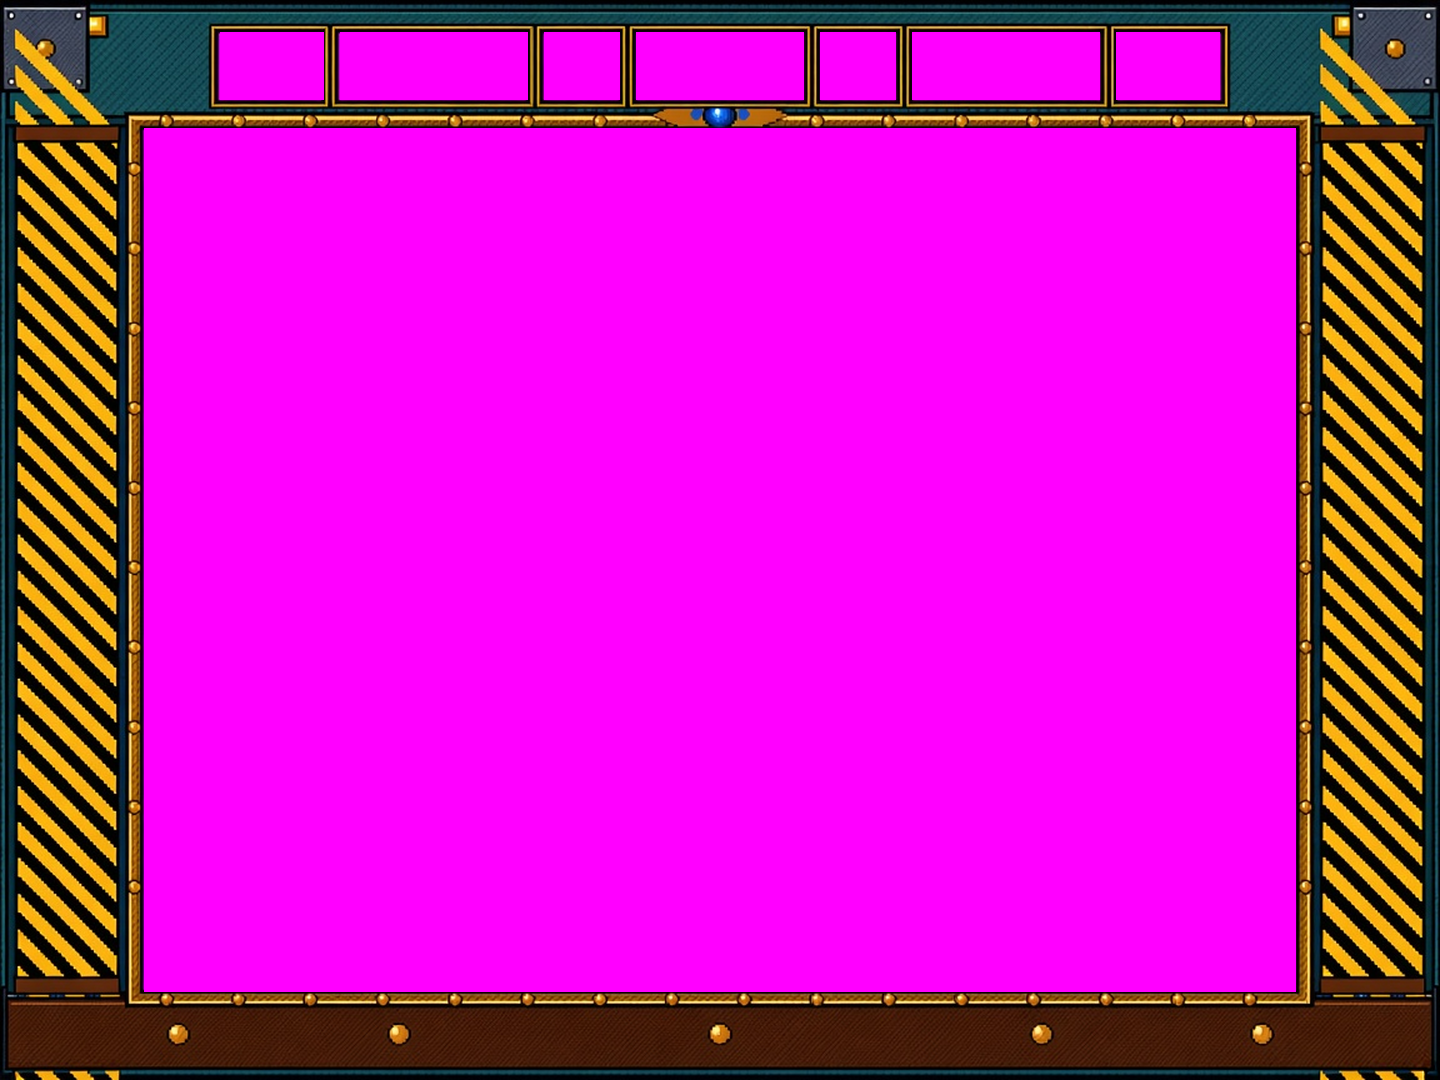
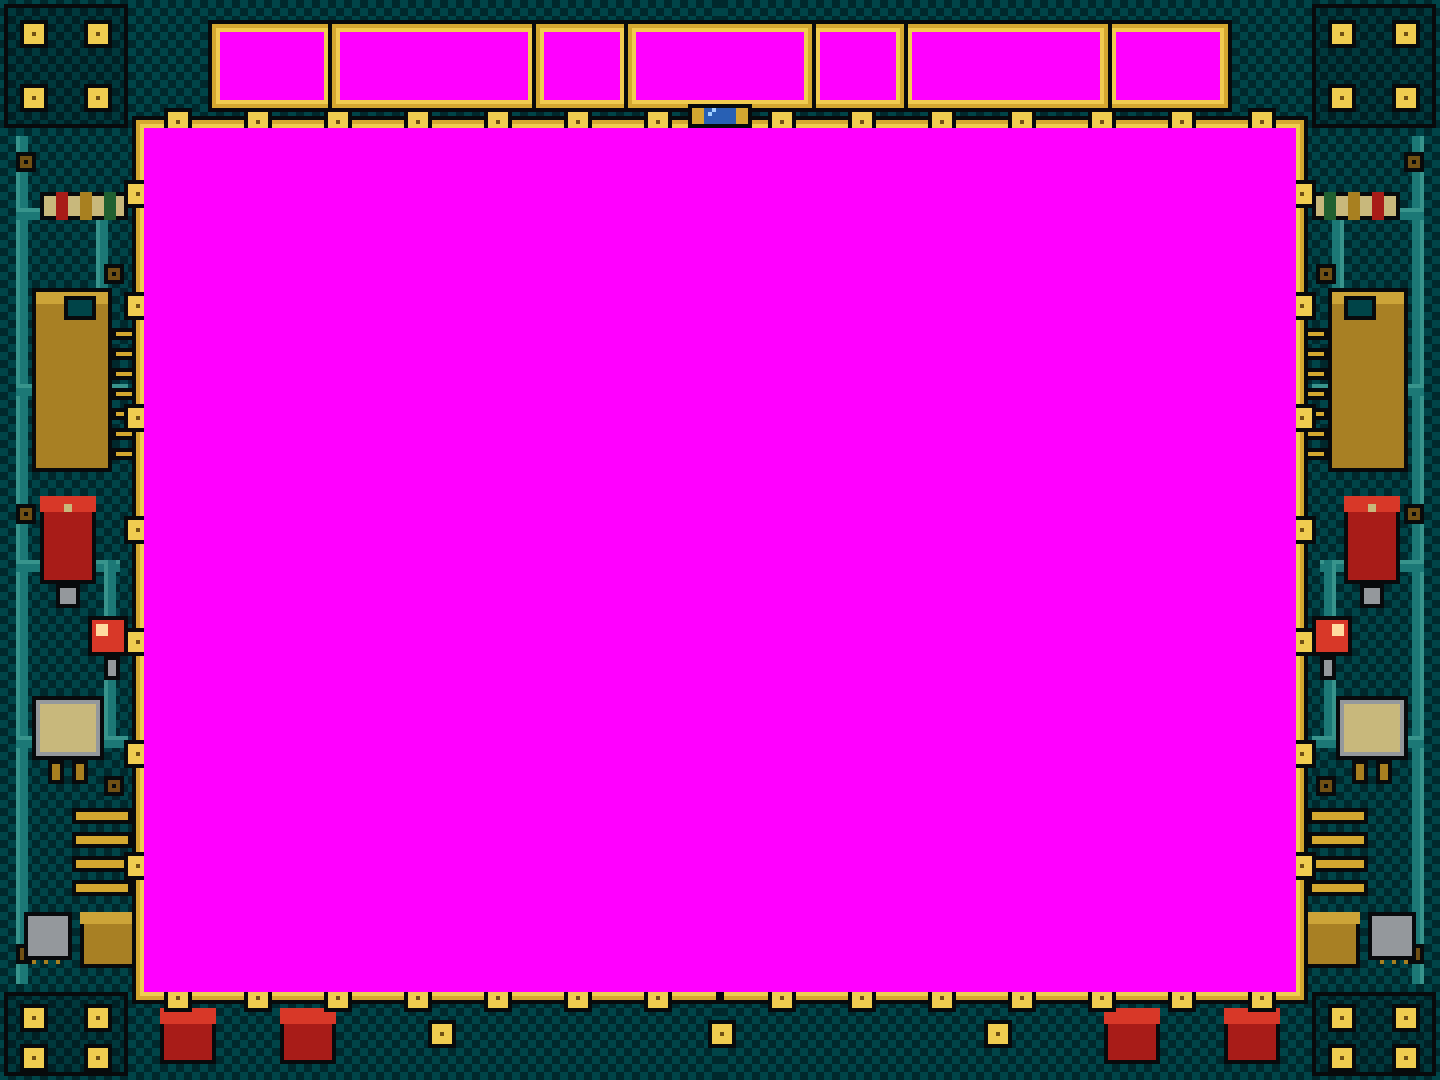
art

Changed region(s): [[0.0, 0.0, 1.0, 1.0]]

diff --git a/app/src/main/java/com/cc/railshot/ui/FighterArt.kt b/app/src/main/java/com/cc/railshot/ui/FighterArt.kt
@@ -113,7 +113,7 @@ object UiArt {
   fun roundNum(n: Int): String = "ui_num_${n.coerceIn(1, 3)}.png"
 }
 
-fun FighterArt.stageCourt(): String = court ?: "rivet/rivet_court_circuit.png"
+fun FighterArt.stageCourt(): String = court ?: "rivet/rivet_court.png"
 
 fun FighterArt.stageCabinet(): String = cabinet ?: "rivet/rivet_ui_cabinet.png"
 
@@ -177,7 +177,7 @@ fun Fighter.art(): FighterArt =
         hitRight = "rivet/rivet_game_hit_right.png",
         ending = "rivet/rivet_ending.png",
         wins = "rivet/rivet_wins.png",
-        court = "rivet/rivet_court_circuit.png",
+        court = "rivet/rivet_court.png",
         cabinet = "rivet/rivet_ui_cabinet.png",
         chipYou = "rivet/rivet_ui_chip_you.png",
         chipCpu = "rivet/rivet_ui_chip_cpu.png",
@@ -200,7 +200,7 @@ fun Fighter.art(): FighterArt =
         hitRight = "ash/ash_game_hit_right.png",
         ending = "ash/ash_ending.png",
         wins = "ash/ash_wins.png",
-        court = "ash/ash_court_circuit.png",
+        court = "ash/ash_court.png",
         cabinet = "ash/ash_ui_cabinet.png",
         chipYou = "ash/ash_ui_chip_you.png",
         chipCpu = "ash/ash_ui_chip_cpu.png",
@@ -223,7 +223,7 @@ fun Fighter.art(): FighterArt =
         hitRight = "kite/kite_game_hit_right.png",
         ending = "kite/kite_ending.png",
         wins = "kite/kite_wins.png",
-        court = "kite/kite_court_circuit.png",
+        court = "kite/kite_court.png",
         cabinet = "kite/kite_ui_cabinet.png",
         chipYou = "kite/kite_ui_chip_you.png",
         chipCpu = "kite/kite_ui_chip_cpu.png",
@@ -246,7 +246,7 @@ fun Fighter.art(): FighterArt =
         hitRight = "maru/maru_game_hit_right.png",
         ending = "maru/maru_ending.png",
         wins = "maru/maru_wins.png",
-        court = "maru/maru_court_circuit.png",
+        court = "maru/maru_court.png",
         cabinet = "maru/maru_ui_cabinet.png",
         chipYou = "maru/maru_ui_chip_you.png",
         chipCpu = "maru/maru_ui_chip_cpu.png",
@@ -269,7 +269,7 @@ fun Fighter.art(): FighterArt =
         hitRight = "quill/quill_game_hit_right.png",
         ending = "quill/quill_ending.png",
         wins = "quill/quill_wins.png",
-        court = "quill/quill_court_circuit.png",
+        court = "quill/quill_court.png",
         cabinet = "quill/quill_ui_cabinet.png",
         chipYou = "quill/quill_ui_chip_you.png",
         chipCpu = "quill/quill_ui_chip_cpu.png",
@@ -292,7 +292,7 @@ fun Fighter.art(): FighterArt =
         hitRight = "hex/hex_game_hit_right.png",
         ending = "hex/hex_ending.png",
         wins = "hex/hex_wins.png",
-        court = "hex/hex_court_circuit.png",
+        court = "hex/hex_court.png",
         cabinet = "hex/hex_ui_cabinet.png",
         chipYou = "hex/hex_ui_chip_you.png",
         chipCpu = "hex/hex_ui_chip_cpu.png",

diff --git a/playbook.md b/playbook.md
@@ -295,16 +295,16 @@ Do not skip ahead: later files are derived from earlier ones.
 
 No fighters, no HUD, no chips. Leave **empty vertical gutters** on left and right so in-game chips sit there. No purple IC squares. No top or bottom metal rails — the cabinet supplies those.
 
-Match **court + cabinet + chips** load from the **2P / rival**. Files: `art/{name}/{name}_court_circuit.png` (opaque 1440×1080), `art/{name}/{name}_ui_cabinet.png` (keyed 1440×1080, exact wells), and four gates `art/{name}/{name}_ui_chip_{you,cpu}.png` plus `..._down.png`. **Approve each fighter’s pair** (then that fighter’s chips) before generating the next. Missing files fall back to Rivet.
+Match **court + cabinet + chips** load from the **2P / rival**. Files: `art/{name}/{name}_court.png` (opaque 1440×1080), `art/{name}/{name}_ui_cabinet.png` (keyed 1440×1080, exact wells), and four gates `art/{name}/{name}_ui_chip_{you,cpu}.png` plus `..._down.png`. **Approve each fighter’s pair** (then that fighter’s chips) before generating the next. Missing files fall back to Rivet.
 
 | Fighter | Floor (playbook prompt) | Court file | Cabinet file |
 | --- | --- | --- | --- |
-| Rivet | Circuit stadium | `rivet/rivet_court_circuit.png` | `rivet/rivet_ui_cabinet.png` |
-| Ash | Parking garage | `ash/ash_court_circuit.png` | `ash/ash_ui_cabinet.png` |
-| Kite | Airfield tarmac | `kite/kite_court_circuit.png` | `kite/kite_ui_cabinet.png` |
-| Maru | Highland moor | `maru/maru_court_circuit.png` | `maru/maru_ui_cabinet.png` |
-| Quill | Forest aerie | `quill/quill_court_circuit.png` | `quill/quill_ui_cabinet.png` |
-| Hex | Night city grid (deep blue PCB) | `hex/hex_court_circuit.png` | `hex/hex_ui_cabinet.png` |
+| Rivet | Circuit stadium | `rivet/rivet_court.png` | `rivet/rivet_ui_cabinet.png` |
+| Ash | Parking garage | `ash/ash_court.png` | `ash/ash_ui_cabinet.png` |
+| Kite | Airfield tarmac | `kite/kite_court.png` | `kite/kite_ui_cabinet.png` |
+| Maru | Highland moor | `maru/maru_court.png` | `maru/maru_ui_cabinet.png` |
+| Quill | Forest aerie | `quill/quill_court.png` | `quill/quill_ui_cabinet.png` |
+| Hex | Night city grid (deep blue PCB) | `hex/hex_court.png` | `hex/hex_ui_cabinet.png` |
 
 **Circuit stadium**
 
@@ -318,13 +318,15 @@ Match **court + cabinet + chips** load from the **2P / rival**. Files: `art/{nam
 
 A **live dash** rides the midline only on **Rivet’s floor** (2P). After serve wait ~2.2s, the bead ping-pongs high ↔ low in ~3.6s each way. Only that bead is solid. Fireball and ice **ricochet**. HARD’s intercept includes the bounce. Paddles ignore it. Do not bake the bead into the floor PNG.
 
+Cabinet (`rivet/rivet_ui_cabinet.png`): authored **360×270**, nearest **×4** to 1440×1080. Left half mirrored. Chunky 8px dither, 12px traces, DIP / cap / LED / crystal / header / transistor. Gold bezels. No hazard stripes. Same well / hole table.
+
 ```
 Top-down 4:3 empty sports court floor, teal circuit-board traces only, gold broken circle with X in the center, dashed center line, empty side gutters, NO purple squares, NO IC pads, NO top or bottom rails, no people, no HUD, no text, pixel art arcade background, 1440x1080
 ```
 
 **Parking garage** (Ash) — **layout first, then pixels**
 
-Do **not** freehand the wells or gutters. Author `ash_court_circuit.png` to this 1440×1080 table (`World` `COURT_GUTTER_W_PX`, `POST_W_PX`, `POST_H_PX`, `POST_X_PX`, `POST_SLOTS`):
+Do **not** freehand the wells or gutters. Author `ash_court.png` to this 1440×1080 table (`World` `COURT_GUTTER_W_PX`, `POST_W_PX`, `POST_H_PX`, `POST_X_PX`, `POST_SLOTS`):
 
 | Piece | Pixels |
 | --- | --- |
@@ -396,7 +398,7 @@ Empty wells in the PNG: magenta `#FF00FF` only. No digits, letters, or dots in t
 `World` constants: `HOLE_*_PX`, `P1_SCORE_INSET`, `P1_NAME_INSET`, `P1_SETS_INSET`, `TIME_INSET`, `P2_SETS_INSET`, `P2_NAME_INSET`, `P2_SCORE_INSET`. `COURT_ASPECT` = 4/3.
 
 ```
-4:3 arcade cabinet 1440x1080, chrome drawn around these magenta wells only: P1 score 220,32,324,100; P1 name 340,32,528,100; P1 sets 544,32,620,100; time 636,32,804,100; P2 sets 820,32,896,100; P2 name 912,32,1100,100; P2 score 1116,32,1220,100; playfield hole 144,128,1296,992 (1152x864 4:3); hazard posts in side margins; wooden bumper below y=992; no text, no digits, no dots
+4:3 arcade cabinet 1440x1080, chrome drawn around these magenta wells only: P1 score 220,32,324,100; P1 name 340,32,528,100; P1 sets 544,32,620,100; time 636,32,804,100; P2 sets 820,32,896,100; P2 name 912,32,1100,100; P2 score 1116,32,1220,100; playfield hole 144,128,1296,992 (1152x864 4:3); themed posts in side margins; bumper below y=992; no text, no digits, no dots
 ```
 
 ### Match, time, score, sets (code)
@@ -422,7 +424,7 @@ Use section **D** for player sprites. Double-tap empty court calls **one ice com
 
 A **court wall** comes out of a **mid-line well** only on **Ash’s floor** (the court loaded from 2P). Other courts stay empty. The camera is top-down: do **not** grow the sprite up the screen. Frames `ash/ash_court_wall_{a,b,c}.png` play inside the well toward the viewer. Three wells on the center line; as one **sinks**, the next **raises** (no empty rest). After serve wait ~2.2s, then high / mid / low in order. Hold ~3.4s at full. Fireball and ice comet **ricochet** like a wall — no freeze, no chip, no paddle lock. HARD’s intercept includes that bounce. Paddles ignore it.
 
-A **live trace** rides Rivet’s midline (`art/rivet/rivet_court_trace.png`, **24×192**, magenta `#FF00FF`). Chunky 4px yellow/black hazard stripes like the cabinet posts. Same ricochet / HARD rules as Ash’s wall. Other courts stay empty of this bead.
+A **live trace** rides Rivet’s midline (`art/rivet/rivet_court_trace.png`, **24×192**, magenta `#FF00FF`). Chunky 8px copper plus a gold via. Same ricochet / HARD rules as Ash’s wall. Other courts stay empty of this bead.
 
 **Ice burst** (`art/ui_ice_burst_a.png`, `_b`, `_c`)
 
@@ -430,7 +432,7 @@ Three keyed ice-shatter frames, 128×128. Overlay when the ice comet dies. Magen
 
 **Court wall** (`art/ash/ash_court_wall_a.png`, `_b`, `_c`)
 
-Keyed top-down steel plate, packed **96×176** (same rect as a well). Exact magenta `#FF00FF` field. **Chunky 4px stall-hatch gold** (same parking-lot yellow as the court corners), limited palette, no anti-alias. Four corner bolts. **A** peeking, **B** mid-raise, **C** fills the well. Draw dest is the **full well rect**.
+Keyed top-down hazard plate, packed **96×176** (same rect as a well). Author **24×44**, nearest **×4**. Exact magenta `#FF00FF` field. Diagonal cabinet stripes: **exactly 2 yellow + 2 dark** on every frame (A/B/C), 2×2 dither, steel rim, four corner bolts. Limited palette, no anti-alias. **A** peeking, **B** mid-raise, **C** fills the well. Draw dest is the **full well rect**.
 
 **Mid-line wells** — Ash court only. Same table as **Parking garage** above. `World`: `COURT_GUTTER_W_PX` 101, `POST_W_PX` 96, `POST_H_PX` 176, `POST_X_PX` 672, `POST_SLOTS` 240 / 540 / 840. Do not bake wells into the other floors.
 
@@ -488,13 +490,21 @@ Files: `{name}/{name}_ui_chip_you.png`, `{name}/{name}_ui_chip_cpu.png`, `{name}
 
 **Approve each fighter’s four chips** before the next fighter. Missing files fall back to Rivet. Gates must **read on that court’s empty side bands**: lighter or darker than the gutter, hard 1px ink, team seam. Do not paint them the same color as the gutter.
 
-Rivet (circuit steel):
+Rivet (ceramic gold DIP):
 
 ```
-1994 Neo Geo sprite matching the cabinet metal, flat 2D, chunky pixels, hard 1px black outline, steel plate, dither, no 3D, no isometric. Standing: one thick vertical steel bar, NO bolts, TEAL seam, magenta #FF00FF sides. Flattened: plain steel rectangle filling the canvas, FOUR MEDIUM gold bolts (one in each corner), thin TEAL accent lines at top AND bottom, NO bolt grid, NO hazard stripes, NO lamps, NO extra chrome. No text.
+1994 Neo Geo sprite, chunky pixels (author small, nearest scale), hard black outline. Ceramic brown body, GOLD plated lid with a left highlight (no die window, no waffle dither, not a DIMM or memory stick). Standing 22×120: DIP face-on, vertical, pin row toward midcourt, thin TEAL pip. Flattened 48×120: classic DIP on its back, gold lid, pins on BOTH long sides. NO text, NO four steel bolts, NO hazard stripes.
 ```
 
-P2: same drawing, crimson seam instead of teal.
+P2: same drawing, crimson pip instead of teal.
+
+Ash (parking stall):
+
+```
+1994 Neo Geo sprite, chunky pixels (author small, nearest scale), hard black outline. CONCRETE bay with GOLD stall hatch (2 gold + 2 concrete diagonals, same language as the floor corners). Standing 22×120: stall seen edge-on, hatch on the face, thin TEAL curb toward midcourt. Flattened 48×120: top-down parking bay, hatch inside yellow stall lines, TEAL curb at the stall head. NO steel plate, NO four corner bolts, NO black hazard (that's the cabinet / well wall). No text.
+```
+
+P2: same drawing, crimson curb instead of teal.
 
 Kite (olive airfield cabinet):
 
